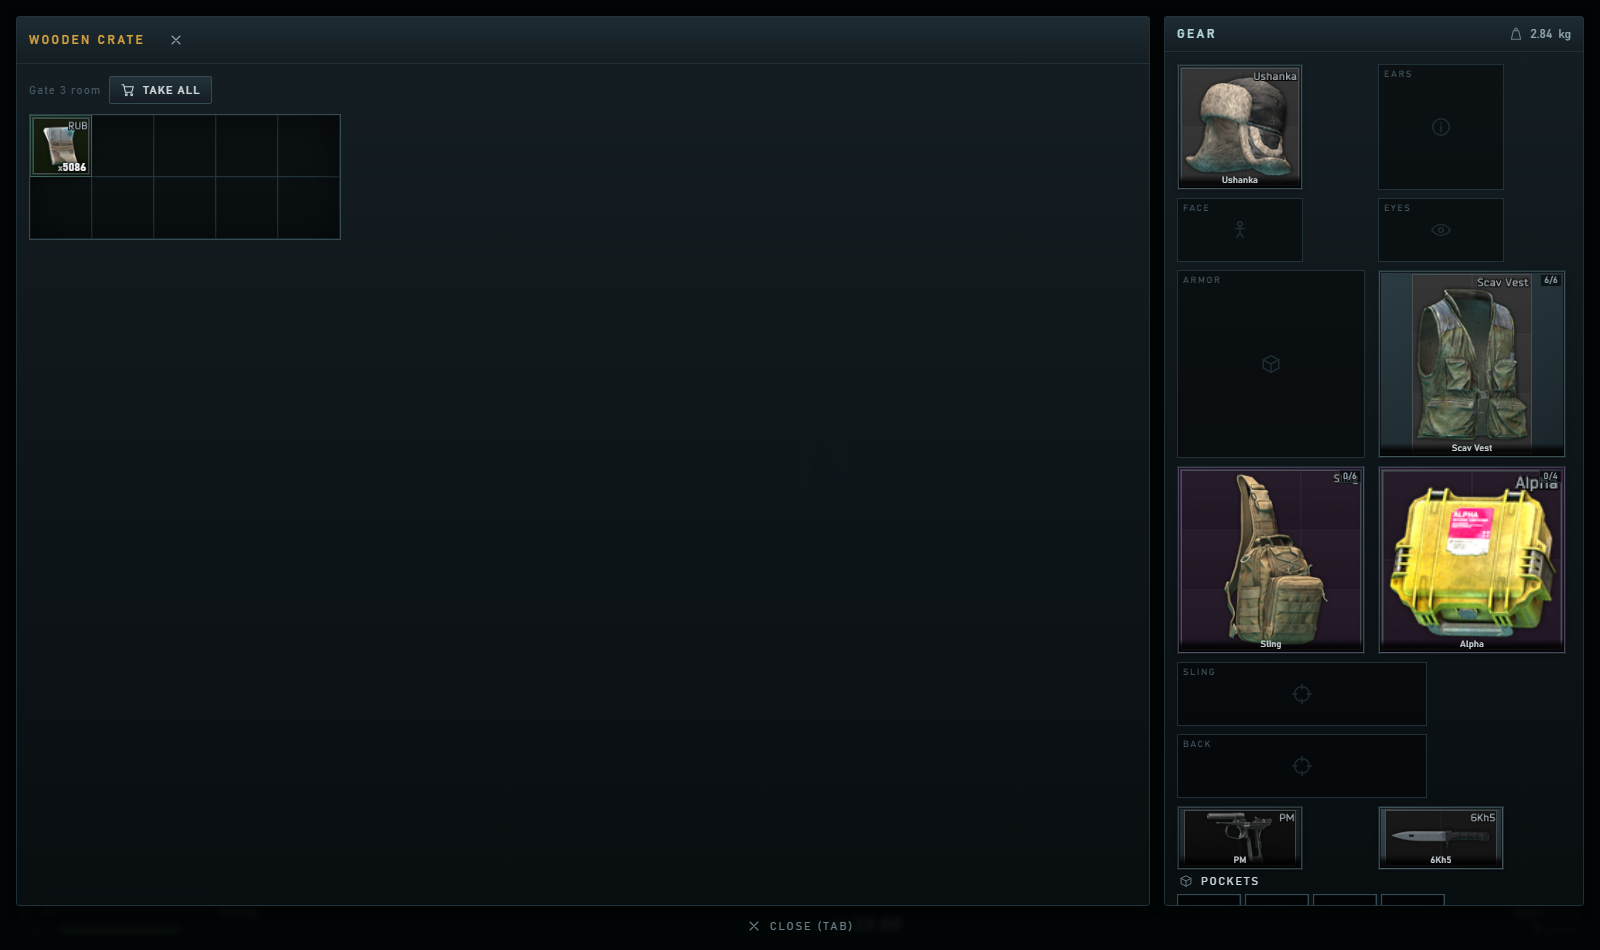
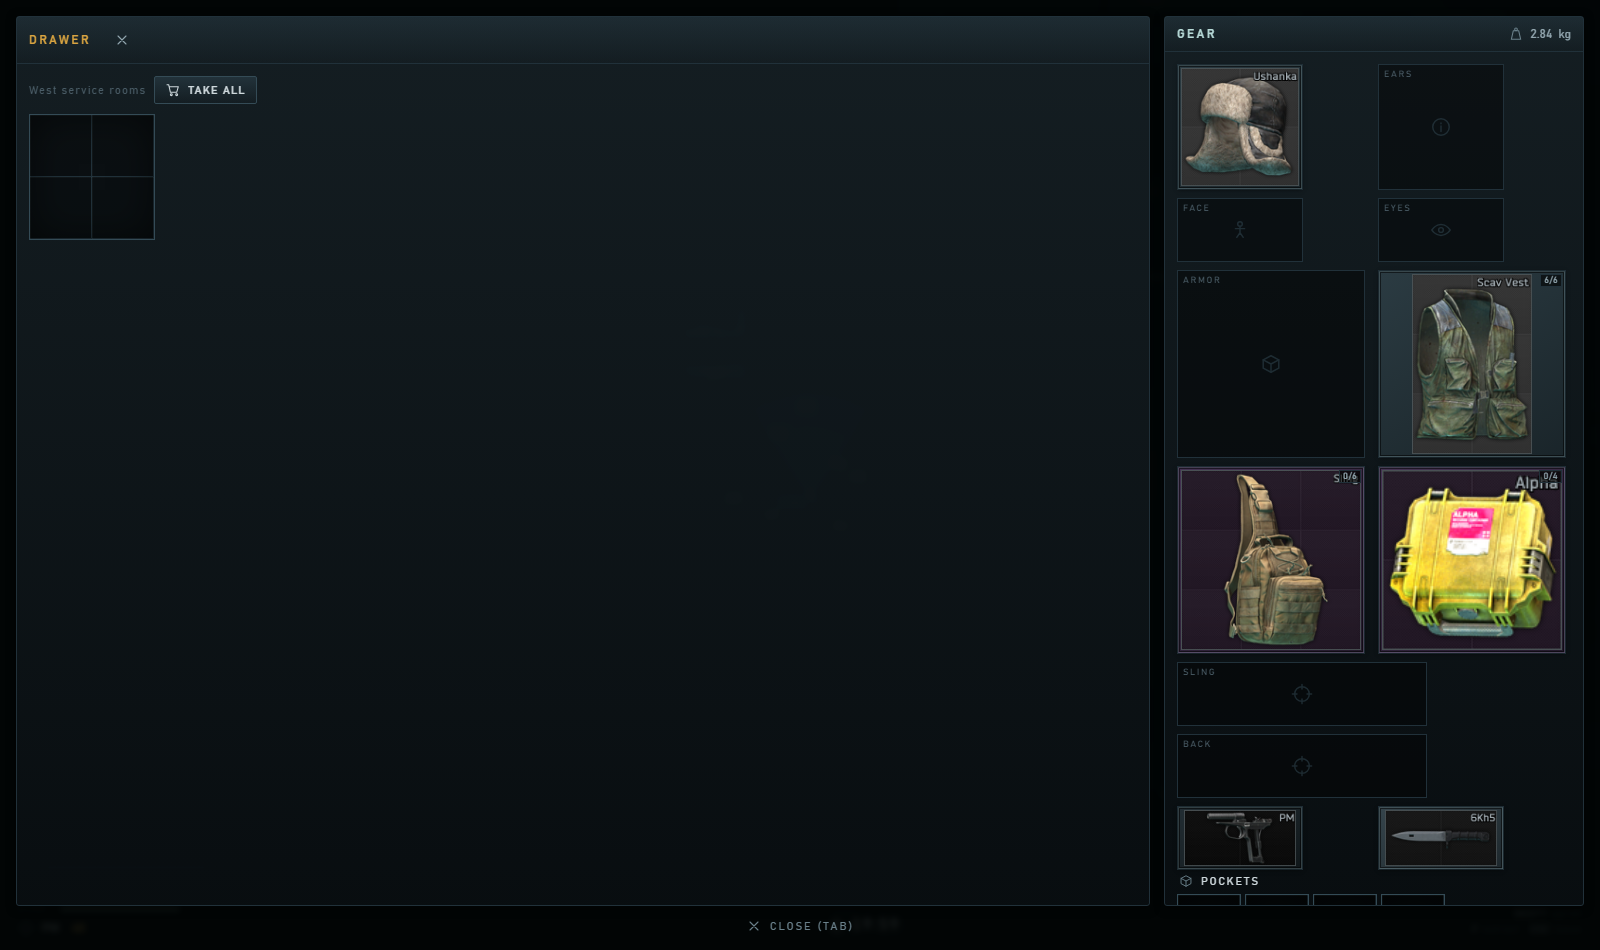
Drop the duplicate item name strip
The tarkov.dev grid sprites already bake the short name into the tile corner,
so drawing it again along the bottom edge doubled it up. The strip now only
appears on the text fallback used when a sprite is missing.

diff --git a/src/inventory/view.js b/src/inventory/view.js
@@ -56,8 +56,9 @@ export function renderItem(item, opts = {}) {
     node.append(el('div', { class: 'item__fallback' }, tpl.short || tpl.name));
   }
 
-  // name strip on anything larger than a single cell
-  if (item.w * item.h > 1 && !opts.noName) {
+  // tarkov.dev grid sprites already carry the short name in the corner, so the
+  // name strip is only needed when we are falling back to a text tile
+  if (!tpl.imgUrl && item.w * item.h > 1 && !opts.noName) {
     node.append(el('div', { class: 'item__name' }, tpl.short || tpl.name));
   }
 
